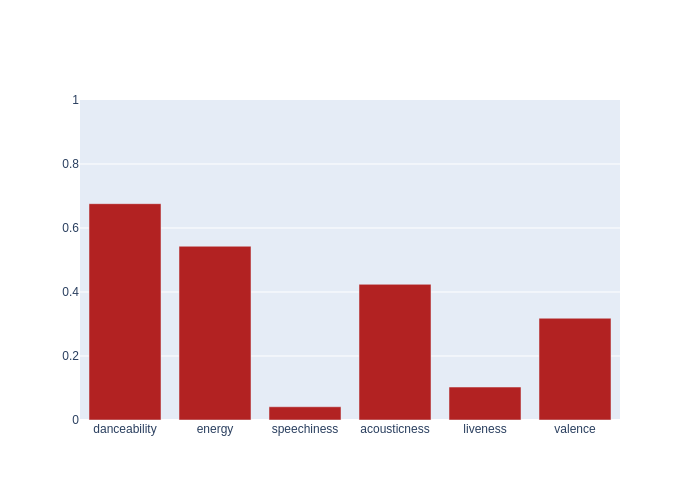
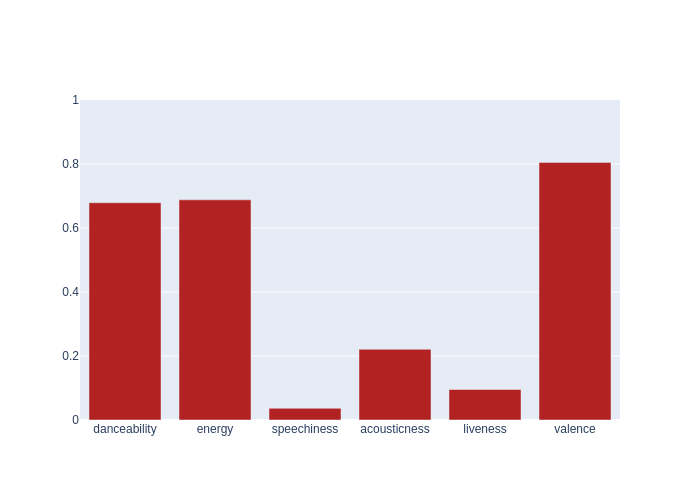
Automated README update

diff --git a/README.md b/README.md
@@ -4,7 +4,7 @@ Automated music metrics for fun, updated hourly.
 
 ## Spotify
 
-- currently listening to **Beren Olivia - History (feat. Lostboycrow)**
+- currently listening to **Lexi Jayde - newbury park**
 
 - **894** liked songs
 - **146** playlists
